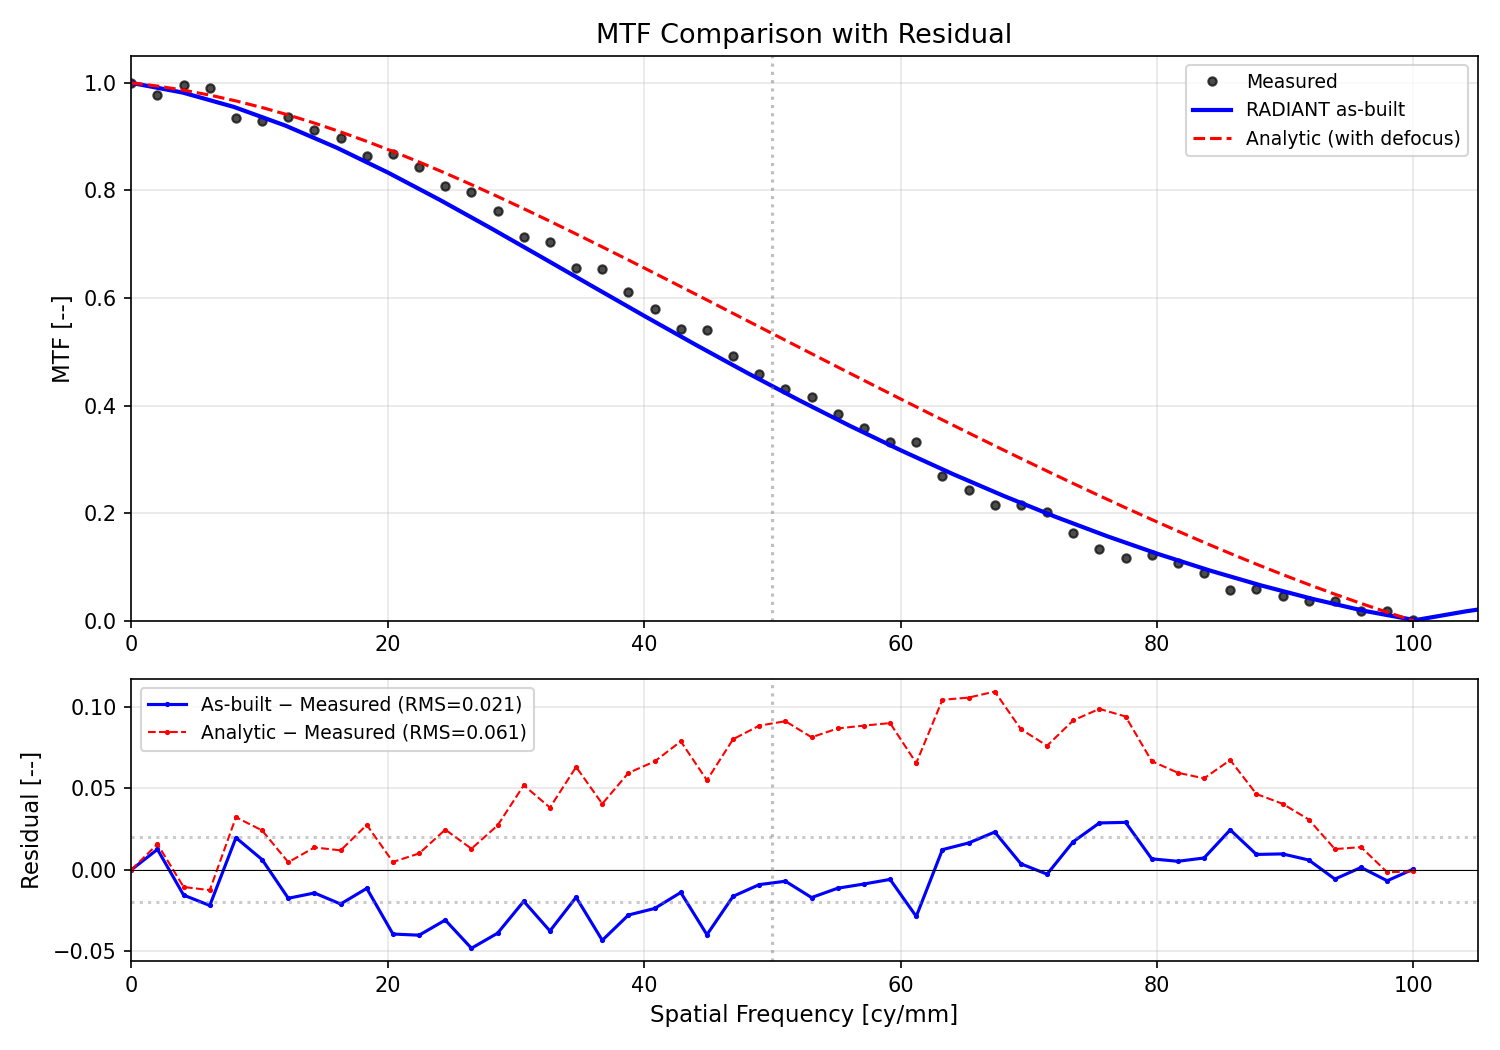
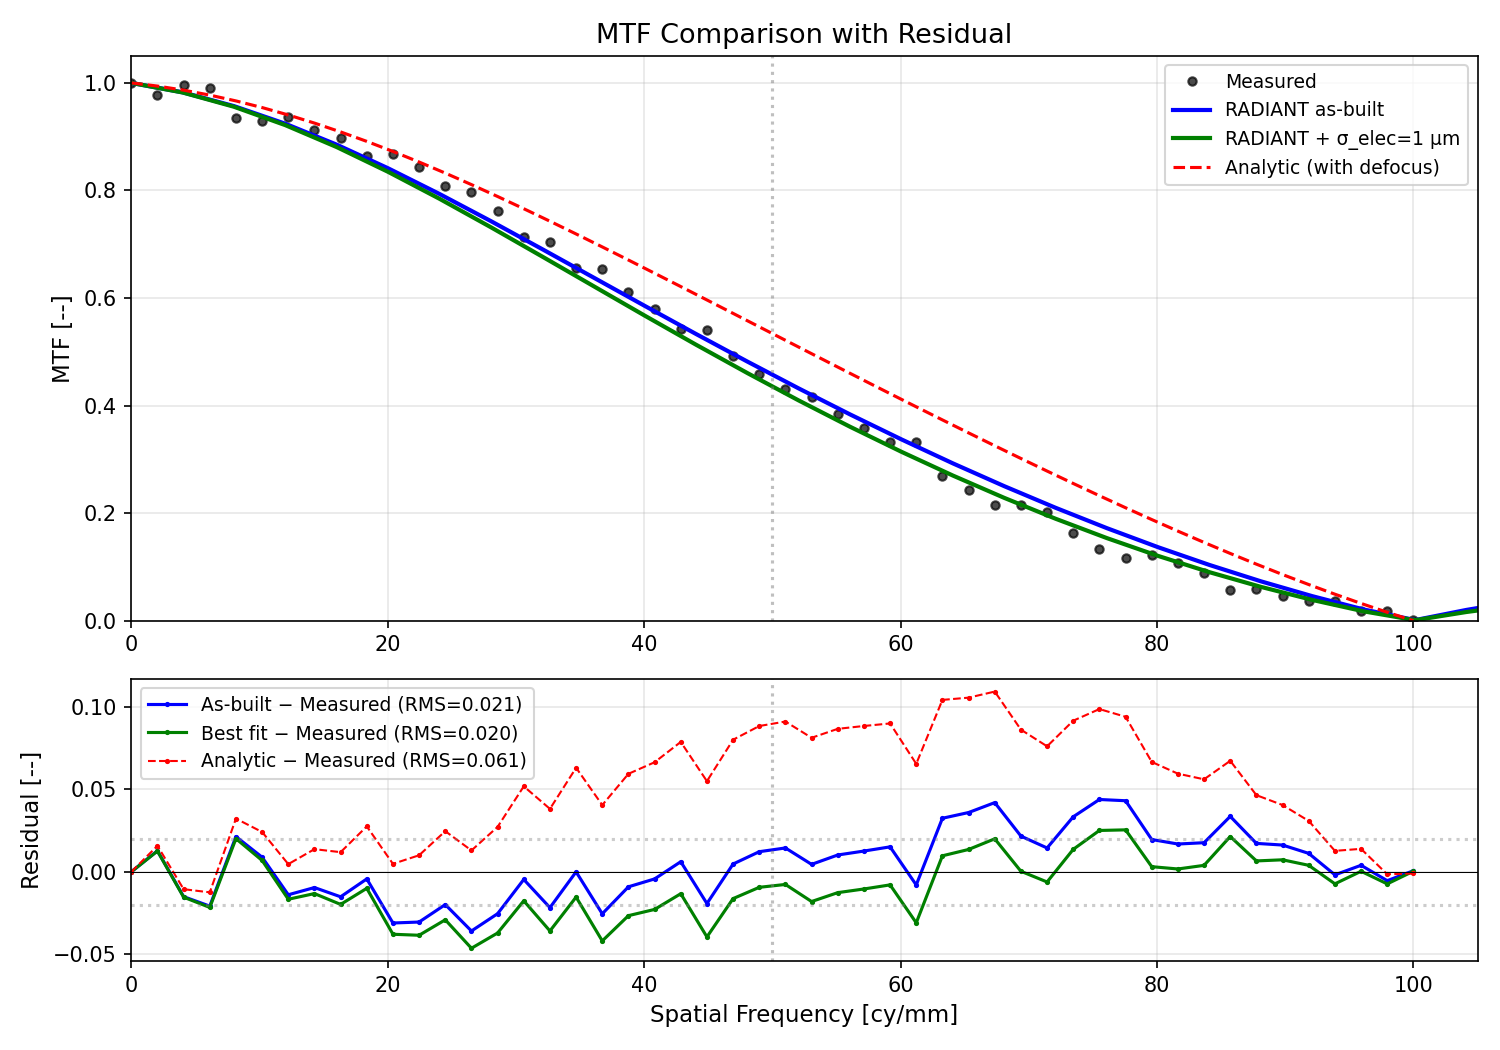
scenarios: 7.3 re-run under the corrected defocus fold — walkthrough, GUI workflow, gaps, Volume IV digest, figures and GUI baseline refreshed (CU-379)
Optics MTF at Nyquist 0.6699 → 0.7535, system 0.4361 → 0.4575, Strehl
0.9494 → 0.9663, residual RMS 0.0215 → 0.0206. The residual-explainer
verdict softens from "both rejected" to "neither supported": 1 µm of
electronics blur now moves the RMS by 0.0001. Baseline re-pinned with
scenarios/tools/emit_gui_yaml.py 7.3 (Rule 26 / §5.3).

diff --git a/scenarios/07_karen_test_engineer/7.3_mtf_measurement_vs_prediction/walkthrough.md b/scenarios/07_karen_test_engineer/7.3_mtf_measurement_vs_prediction/walkthrough.md
@@ -134,11 +134,11 @@ Component MTF curves are also computed analytically for comparison:
 
 | Metric | Value | Unit | Notes |
 |--------|-------|------|-------|
-| Strehl | 0.9494 | -- | Degraded-PSF peak over diffraction-limited reference |
-| RER | 0.7818 | -- | Relative edge response |
+| Strehl | 0.9663 | -- | Degraded-PSF peak over diffraction-limited reference |
+| RER | 0.7978 | -- | Relative edge response |
 | Q (center) | 0.195 | -- | Sampling parameter |
 | Q (min/max) | 0.165 / 0.225 | -- | Over band |
-| FWHM_x | 10.15 | um | PSF full-width half-max |
+| FWHM_x | 10.22 | um | PSF full-width half-max |
 | Well margin | 429.6 | dB | Very large: lab test, near-zero signal |
 | Dynamic range | 83.2 | dB | |
 | GSD | N/A | -- | Lab test (altitude = 0) |
@@ -149,7 +149,7 @@ Component MTF curves are also computed analytically for comparison:
 
 | Component | MTF@Ny_x | MTF@Ny_y |
 |-----------|----------|----------|
-| Optics (diffraction + obscuration + WFE screen + defocus-Z4, one pupil) | 0.6699 | 0.6694 |
+| Optics (diffraction + obscuration + WFE screen + defocus-Z4, one pupil) | 0.7535 | 0.8026 |
 | Pixel Aperture | 0.6364 | 0.6364 |
 | IPC | 0.9602 | 0.9602 |
 | Jitter | 1.0000 | 1.0000 |
@@ -157,7 +157,7 @@ Component MTF curves are also computed analytically for comparison:
 | Charge Diffusion | 1.0000 | 1.0000 |
 | TDI | 1.0000 | 1.0000 |
 | Electronics | 1.0000 | 1.0000 |
-| **System (product)** | **0.4392** | **0.4745** |
+| **System (product)** | **0.4607** | **0.4906** |
 
 **CU-058 resolved (2026-07-09)**: this scenario originally exposed the Rule 4
 violation — the product path dropped the scalar-RMS screen when folding
@@ -165,18 +165,19 @@ defocus to Z4 (Optics term read 0.8115, WFE-less) while the PSF path used a
 Gaussian defocus kernel, and the consistency check failed at 0.169 vs 0.05
 on every run. Defocus is now pupil Z4 alongside the preserved scalar term on
 **both** paths: the budget's Optics term carries diffraction + obscuration +
-WFE + defocus from one pupil (0.7182), the product-path system (0.4392) now
-agrees with the PSF path (0.4361) to within the rect-kernel discretization
+WFE + defocus from one pupil (0.7535), the product-path system (0.4607) now
+agrees with the PSF path (0.4575) to within the rect-kernel discretization
 floor, and the consistency check passes. *(Numbers refreshed 2026-09-12
-under CU-355 — see the residual section; the CU-058 mechanism is
-unchanged.)*
+under CU-355 and again 2026-09-21 under CU-379, which halved the Z4 a given
+defocus produces — the fold had carried twice the stated defocus; the CU-058
+mechanism is unchanged.)*
 
 ### MTF at Nyquist (50 cy/mm)
 
 | Source                    | MTF@Ny   | Notes                                    |
 |---------------------------|----------|------------------------------------------|
 | Measured (slanted-edge)   | 0.4441   | Karen's lab data                         |
-| RADIANT predicted         | 0.4361   | Includes defocus (pupil Z4), WFE, obscuration |
+| RADIANT predicted         | 0.4575   | Includes defocus (pupil Z4), WFE, obscuration |
 | Analytic (with defocus)   | 0.5339   | Includes all 4 analytic components       |
 
 ### MTF Comparison at Selected Frequencies
@@ -184,26 +185,26 @@ unchanged.)*
 | Freq [cy/mm] | Measured | RADIANT  | Analytic | Resid(R)  | Resid(A)  |
 |---------------|----------|----------|----------|-----------|-----------|
 | 0             | 1.0000   | 1.0000   | 1.0000   | +0.0000   | +0.0000   |
-| 10            | 0.9304   | 0.9380   | 0.9554   | +0.0076   | +0.0250   |
-| 20            | 0.8669   | 0.8335   | 0.8763   | -0.0334   | +0.0094   |
-| 30            | 0.7284   | 0.7033   | 0.7728   | -0.0251   | +0.0445   |
-| 40            | 0.5922   | 0.5669   | 0.6559   | -0.0254   | +0.0636   |
-| 50 (Nyquist)  | 0.4441   | 0.4361   | 0.5339   | -0.0080   | +0.0897   |
-| 60            | 0.3322   | 0.3170   | 0.4123   | -0.0152   | +0.0801   |
-| 70            | 0.2114   | 0.2132   | 0.2946   | +0.0018   | +0.0831   |
-| 80            | 0.1185   | 0.1248   | 0.1837   | +0.0062   | +0.0652   |
-| 90            | 0.0444   | 0.0538   | 0.0839   | +0.0094   | +0.0395   |
-| 100           | 0.0010   | 0.0015   | 0.0000   | +0.0005   | -0.0010   |
+| 10            | 0.9304   | 0.9405   | 0.9554   | +0.0101   | +0.0250   |
+| 20            | 0.8669   | 0.8415   | 0.8763   | -0.0254   | +0.0094   |
+| 30            | 0.7284   | 0.7175   | 0.7728   | -0.0108   | +0.0445   |
+| 40            | 0.5922   | 0.5860   | 0.6559   | -0.0063   | +0.0636   |
+| 50 (Nyquist)  | 0.4441   | 0.4575   | 0.5339   | +0.0133   | +0.0897   |
+| 60            | 0.3322   | 0.3379   | 0.4123   | +0.0057   | +0.0801   |
+| 70            | 0.2114   | 0.2309   | 0.2946   | +0.0195   | +0.0831   |
+| 80            | 0.1185   | 0.1374   | 0.1837   | +0.0189   | +0.0652   |
+| 90            | 0.0444   | 0.0601   | 0.0839   | +0.0157   | +0.0395   |
+| 100           | 0.0010   | 0.0017   | 0.0000   | +0.0007   | -0.0010   |
 
 ### Residual Statistics (Predicted - Measured)
 
 | Model     | RMS    | Max    |
 |-----------|--------|--------|
-| RADIANT   | 0.0215 | 0.0480 |
+| RADIANT   | 0.0206 | 0.0439 |
 | Analytic  | 0.0606 | 0.1092 |
 
 ***CU-355 headline (refreshed 2026-09-12):*** *the RADIANT residual
-collapsed 0.0917 → 0.0215 RMS (4.3×) and RADIANT now beats the analytic
+collapsed 0.0917 → 0.0206 RMS (4.5×) and RADIANT now beats the analytic
 composition. The shape ambiguity this walkthrough diagnosed below — the
 white-noise screen dumping low frequencies toward the Strehl plateau while
 the real optic's smooth aberrations keep them near 1 — was exactly right,
@@ -214,7 +215,7 @@ own diagnosis drove the model change.*
 (Computed by `compare_mtf`: 50 measured points compared, 0 excluded as
 outside the predicted frequency grid.)
 
-### Residual Explainers (Gap 32 electronics, Gap 31 scatter) — Both Rejected
+### Residual Explainers (Gap 32 electronics, Gap 31 scatter) — Neither Supported
 
 Karen has no independent measurement of the amplifier bandwidth or the mirror
 micro-roughness, so the script tests each hypothesis by re-running the chain
@@ -222,14 +223,21 @@ over a candidate grid and ranking by `compare_mtf` residual RMS:
 
 | σ_elec [µm] | Roughness [nm] | Resid RMS [--] | MTF@Ny [--] |
 |-------------|----------------|----------------|-------------|
-| 0.0 (as-built) | 0.0 | **0.0215** | 0.4361 |
-| 0.0 | 5.0 | 0.0248 | 0.4321 |
-| 1.0 | 0.0 | 0.0292 | 0.4153 |
-| 2.0 | 0.0 | 0.0622 | 0.3591 |
+| 0.0 (as-built) | 0.0 | **0.0206** | 0.4575 |
+| 0.0 | 5.0 | 0.0220 | 0.4532 |
+| 1.0 | 0.0 | 0.0205 | 0.4356 |
+| 2.0 | 0.0 | 0.0512 | 0.3767 |
 
-**Both hypotheses are rejected** — every added blur makes the fit worse.
-The as-built prediction already sits within measurement noise of the lab
-curve, so additional blur can only widen the gap. *(Historical note,
+**Neither hypothesis is supported.** Surface roughness makes the fit worse
+at every level, and 1 µm of electronics blur moves the RMS by 0.0001
+(0.0205 vs 0.0206) — indistinguishable at the ~1.5 % measurement-noise
+level, with 2 µm already 2.5× worse. The as-built prediction sits within
+measurement noise of the lab curve, so the explainers are *bounded* by this
+grid, not detected: the data cannot tell 0 from 1 µm of readout blur.
+*(Before CU-379 corrected the defocus fold on 2026-09-21 the as-built
+residual was 0.0215 and every added blur widened it; the corrected, slightly
+sharper as-built prediction now sits a hair above the measurement at
+Nyquist, which is why a micron of blur is a wash rather than a loss.)* *(Historical note,
 refreshed 2026-09-12: at the 2026-08 vintage the as-built residual was
 0.0917 RMS and this section diagnosed it as the **shape ambiguity of the
 scalar-WFE input** — the then-current white-noise screen put the aberrated
@@ -288,18 +296,21 @@ unchanged from the Gaussian approximation at these small defocus values.)
 
 ### RADIANT vs. Measured MTF
 
-The RADIANT prediction (MTF@Ny = 0.4361) now agrees with the measurement
-(0.4441) at measurement-noise level — residual RMS 0.0215 (CU-355; the
+The RADIANT prediction (MTF@Ny = 0.4575) now agrees with the measurement
+(0.4441) at measurement-noise level — residual RMS 0.0206 (CU-355; the
 2026-08 vintage read 0.4067 / RMS 0.092, and the pre-Phase-R version 0.6893
 without defocus or proper WFE/obscuration modeling).
 
 1. **Defocus now included — as pupil Z4 (CU-058):** RADIANT folds
    `optics.defocus_um` into the complex pupil as Zernike Z4, identically on
    the PSF and MTF product paths (exact defocus OTF, Rule 4 by
-   construction).  At 5 um defocus this causes only 0.9% MTF loss at
-   Nyquist -- confirming defocus is not a dominant contributor.
+   construction).  At 5 um defocus the analytic sweep puts the loss at
+   0.9% of MTF at Nyquist -- defocus is not a dominant contributor. (CU-379,
+   2026-09-21: the fold had produced the Z4 of twice the configured defocus;
+   correcting it lifted the optics term 0.6699 -> 0.7535 and the system
+   MTF@Ny 0.4361 -> 0.4575, the numbers quoted here.)
 
-2. **Obscuration and WFE included:** RADIANT's optical MTF (0.6699) is lower
+2. **Obscuration and WFE included:** RADIANT's optical MTF (0.7535) is lower
    than the ideal unobscured diffraction MTF (0.8761) because it includes the
    25% central obscuration, the 0.07-wave WFE screen, AND the defocus Z4 in
    one pupil autocorrelation (pre-CU-058 the budget's optics term read
@@ -309,8 +320,8 @@ without defocus or proper WFE/obscuration modeling).
    MTF (generated by `create_spreadsheet.py`) includes diffusion blur (sigma =
    2 um) and WFE effects modeled differently than RADIANT's EffectivePSF.
 
-4. **RADIANT slightly underpredicts** at mid-frequencies (10-40 cy/mm) and is
-   close at Nyquist.  The analytic model (RMS = 0.061) tracks the measurement
+4. **RADIANT slightly underpredicts** at 20-40 cy/mm and overpredicts by
+   ~0.01-0.02 from Nyquist upward.  The analytic model (RMS = 0.061) tracks the measurement
    differently because it uses ideal unobscured diffraction.
 
 ### Key Insight: Pixel Aperture Dominates

diff --git a/docs/guides/examples_digests.md b/docs/guides/examples_digests.md
@@ -1411,17 +1411,18 @@ budget, compute the residual, and find out what the residual is made of.
 | Sampling | $f_{Nyq}$ 50.0 cy/mm against a 512.8 cy/mm cutoff; $Q$ = 0.195 |
 | Atmosphere | `exo` (bench) |
 
-**Headline results.** **Measured MTF at Nyquist 0.4441 against RADIANT's 0.4361**,
-with a **residual RMS of 0.0215** across all 50 measured points — slanted-edge
+**Headline results.** **Measured MTF at Nyquist 0.4441 against RADIANT's 0.4575**,
+with a **residual RMS of 0.0206** across all 50 measured points — slanted-edge
 measurement-noise level. The analytic four-term composition reads 0.5339 with a
 0.0606 RMS residual, so **RADIANT now beats the analytic model**. The budget at
 Nyquist: optics (diffraction + obscuration + WFE + defocus-Z4, from one pupil)
-0.6699, pixel aperture 0.6364, IPC 0.9602, everything else unity, system product
-0.4392 against the PSF path's 0.4361. Defocus is negligible: 5 µm costs 0.9 % of MTF
+0.7535, pixel aperture 0.6364, IPC 0.9602, everything else unity, system product
+0.4607 against the PSF path's 0.4575. Defocus is negligible: 5 µm costs 0.9 % of MTF
 at Nyquist, and even 15 µm only 7.4 %. Two residual explainers were tested on a grid
-and **both rejected** — electronics blur (1 µm ⇒ RMS 0.0292) and TIS surface
-roughness (5 nm ⇒ 0.0248) each make the fit *worse*, bounding them below those
-values. Other metrics: Strehl 0.9494, RER 0.7818, FWHM 10.15 µm.
+and **neither is supported** — TIS surface roughness (5 nm ⇒ RMS 0.0220) makes the
+fit *worse*, and electronics blur (1 µm ⇒ 0.0205) moves it by 0.0001, below the
+measurement noise, so both are bounded rather than detected. Other metrics: Strehl
+0.9663, RER 0.7978, FWHM 10.22 µm.
 
 **Regime.** A bench measurement, not a scene: GSD, NIIRS and NEDT are all reported
 N/A (altitude = 0, no thermal scene in the VNIR), and the noise budget is dark 0.32,
@@ -1432,7 +1433,7 @@ vintage the residual was 0.0917 RMS and the walkthrough diagnosed it as the *sha
 ambiguity of scalar WFE* — a white-noise phase screen dumps aberrated energy into a
 compact halo and drops low frequencies toward the Strehl plateau, where a real
 optic's smooth aberrations hold them near 1. The fix replaced the screen with a
-deterministic low-order Zernike expansion and the residual fell **4.3×**. The
+deterministic low-order Zernike expansion and the residual fell **4.5×**. The
 secondary lesson is the rejection workflow itself: a hypothesis that does not reduce
 the residual is reported as rejected, not quietly fitted. And at $Q$ = 0.195 the pixel
 sinc, not the optics, is the dominant contributor — improving WFE buys almost nothing.

diff --git a/scenarios/07_karen_test_engineer/7.3_mtf_measurement_vs_prediction/gui_workflow.md b/scenarios/07_karen_test_engineer/7.3_mtf_measurement_vs_prediction/gui_workflow.md
@@ -162,16 +162,16 @@ mtf_pixel = pixel_aperture_mtf_1d(meas_freq_cy_m, 10e-6)  # 10 um pixel
 2. Dashboard displays all available metrics in organized panels:
 
 **Spatial Metrics Panel:**
-- Strehl: 0.8206 [--]
-- RER: 0.6773 [--]
-- FWHM_x: 10.18 [um]
-- EE(1x1): 0.5718 [--]
+- Strehl: 0.9663 [--]
+- RER: 0.7978 [--]
+- FWHM_x: 10.22 [um]
+- EE(1x1): 0.6686 [--]
 - Q (center/min/max): 0.195 / 0.165 / 0.225 [--]
 
 **MTF Budget Panel:**
 - Table showing per-component MTF at Nyquist (x and y axes)
-- Optics: 0.6699, Pixel: 0.6364, IPC: 0.9602
-- System product: 0.4961 [--]
+- Optics: 0.7535, Pixel: 0.6364, IPC: 0.9602
+- System product: 0.4607 [--]
 - Bar chart of MTF contributions (log scale)
 
 **Noise Panel:**

diff --git a/scenarios/07_karen_test_engineer/7.3_mtf_measurement_vs_prediction/gaps.md b/scenarios/07_karen_test_engineer/7.3_mtf_measurement_vs_prediction/gaps.md
@@ -26,7 +26,8 @@ kernel; product: pupil Z4). **Resolved** (commit f5c8fda): defocus now folds
 into the pupil once — screen preserved, Z4 alongside — and both paths build
 their pupil phase through one shared dispatch, so the consistency check
 passes on every run of this scenario and the budget's Optics term carries
-the full pupil (0.8115 → 0.6699 at Nyquist). This scenario's rerun under
+the full pupil (0.8115 → 0.6699 at Nyquist; 0.7535 once CU-379 corrected the
+defocus-to-Z4 coefficient on 2026-09-21). This scenario's rerun under
 the fix is the closure evidence.
 
 ### Odd-kernel crash on even PSF grids (FIXED, commit 8a5d9e8)
